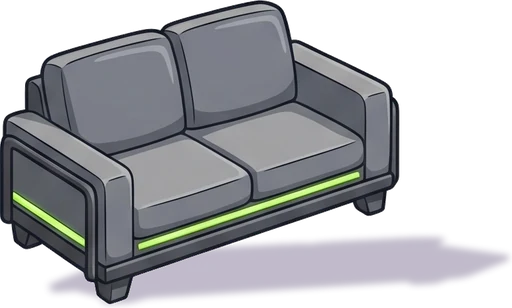
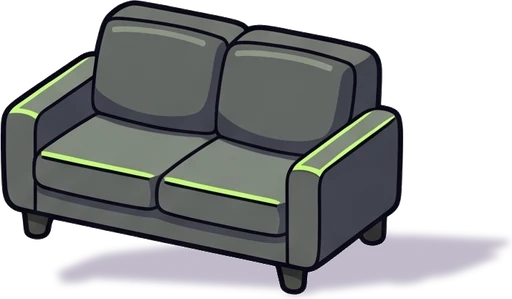
feat: Urban Night room with the bed, wardrobe, desk and shelves drawn in; its sofa and armchair face the viewer

diff --git a/src/data/roomPlacement.test.ts b/src/data/roomPlacement.test.ts
@@ -506,24 +506,24 @@ describe('mission objects and the desk', () => {
   });
 
   describe('turning big items to the other wall', () => {
-    const urban = { ...baseProfile, themeId: 'urban-night' } as LearnerProfile;
-    const { cornerX } = getRoomGeometry('urban-night');
-    const sofaOnRightWall = placeRoomItemAt(urban, 'room-sofa', { x: 75, y: 88 }, NOW);
+    const travel = { ...baseProfile, themeId: 'travel-journal' } as LearnerProfile;
+    const { cornerX } = getRoomGeometry('travel-journal');
+    const sofaOnRightWall = placeRoomItemAt(travel, 'room-sofa', { x: 75, y: 88 }, NOW);
 
     it('marks only furniture with a front and a side as turnable', () => {
       ['room-sofa', 'object:bed', 'object:wardrobe', 'object:desk'].forEach((key) =>
-        expect(findEntry(key === 'room-sofa' ? sofaOnRightWall : urban, key)?.canRotate, key).toBe(true)
+        expect(findEntry(key === 'room-sofa' ? sofaOnRightWall : travel, key)?.canRotate, key).toBe(true)
       );
-      expect(findEntry(urban, 'object:phone')?.canRotate).toBe(false);
-      expect(findEntry(placeRoomItemAt(urban, 'room-books', { x: 70, y: 40 }, NOW), 'room-books')?.canRotate).toBe(false);
+      expect(findEntry(travel, 'object:phone')?.canRotate).toBe(false);
+      expect(findEntry(placeRoomItemAt(travel, 'room-books', { x: 70, y: 40 }, NOW), 'room-books')?.canRotate).toBe(false);
     });
 
     it('knows which wall a big item stands against from where it stands', () => {
       expect(findEntry(sofaOnRightWall, 'room-sofa')?.isOnLeftWall).toBe(false);
       // by default the bed and the wardrobe stand along the left wall, the desk along the right one
-      expect(findEntry(urban, 'object:bed')?.isOnLeftWall).toBe(true);
-      expect(findEntry(urban, 'object:wardrobe')?.isOnLeftWall).toBe(true);
-      expect(findEntry(urban, 'object:desk')?.isOnLeftWall).toBe(false);
+      expect(findEntry(travel, 'object:bed')?.isOnLeftWall).toBe(true);
+      expect(findEntry(travel, 'object:wardrobe')?.isOnLeftWall).toBe(true);
+      expect(findEntry(travel, 'object:desk')?.isOnLeftWall).toBe(false);
     });
 
     it('turns an item where it stands: only the picture changes wall, and turning twice turns it back', () => {
@@ -540,16 +540,16 @@ describe('mission objects and the desk', () => {
       const movedSofa = placeRoomItemAt(sofaOnRightWall, 'room-sofa', { x: 20, y: 92 }, NOW);
       expect(findEntry(movedSofa, 'room-sofa')!.point.x).toBeLessThan(cornerX);
       expect(findEntry(movedSofa, 'room-sofa')!.isOnLeftWall).toBe(false);
-      const movedDesk = moveRoomObject(urban, 'desk', { x: 20, y: 95 }, NOW);
+      const movedDesk = moveRoomObject(travel, 'desk', { x: 20, y: 95 }, NOW);
       expect(findEntry(movedDesk, 'object:desk')!.isOnLeftWall).toBe(false);
-      const turnedThenMoved = moveRoomObject(turnRoomItem(urban, 'object:desk', NOW), 'desk', { x: 85, y: 95 }, NOW);
+      const turnedThenMoved = moveRoomObject(turnRoomItem(travel, 'object:desk', NOW), 'desk', { x: 85, y: 95 }, NOW);
       expect(findEntry(turnedThenMoved, 'object:desk')!.isOnLeftWall).toBe(true);
     });
 
     it('keeps a turned item on the floor, below the baseboard', () => {
-      const geometry = getRoomGeometry('urban-night');
+      const geometry = getRoomGeometry('travel-journal');
       ['room-sofa', 'object:bed', 'object:wardrobe', 'object:desk'].forEach((key) => {
-        const profile = turnRoomItem(key === 'room-sofa' ? sofaOnRightWall : urban, key, NOW);
+        const profile = turnRoomItem(key === 'room-sofa' ? sofaOnRightWall : travel, key, NOW);
         const entry = findEntry(profile, key)!;
         expect(entry.point.y, key).toBeGreaterThanOrEqual(floorEdgeY(geometry, entry.point.x));
         expect(entry.item.slotKind, key).toBe('floor');
@@ -557,7 +557,7 @@ describe('mission objects and the desk', () => {
     });
 
     it('turns the desk with what lies on it', () => {
-      const turned = turnRoomItem(urban, 'object:desk', NOW);
+      const turned = turnRoomItem(travel, 'object:desk', NOW);
       const desk = findEntry(turned, 'object:desk')!;
       expect(desk.isOnLeftWall).toBe(true);
       const phone = findEntry(turned, 'object:phone')!;
@@ -566,8 +566,8 @@ describe('mission objects and the desk', () => {
     });
 
     it('leaves items that cannot turn, and unknown keys, unchanged', () => {
-      expect(turnRoomItem(urban, 'object:phone', NOW)).toBe(urban);
-      expect(turnRoomItem(urban, 'nope', NOW)).toBe(urban);
+      expect(turnRoomItem(travel, 'object:phone', NOW)).toBe(travel);
+      expect(turnRoomItem(travel, 'nope', NOW)).toBe(travel);
     });
   });
 

diff --git a/src/components/room/RoomScene.test.tsx b/src/components/room/RoomScene.test.tsx
@@ -9,11 +9,11 @@ import { RoomScene } from './RoomScene';
 const NOW = new Date('2026-10-29T10:00:00.000Z');
 
 /** A room whose furniture is movable (not drawn into the room picture). */
-const urbanProfile = () => makeProfile({ themeId: 'urban-night' });
+const travelProfile = () => makeProfile({ themeId: 'travel-journal' });
 
 const profileWithSofa = () =>
   placeRoomItemAt(
-    makeProfile({ themeId: 'urban-night', unlockedRewardIds: ['room-sofa'], room: { ...getRoom(makeProfile()), placements: {} } }),
+    makeProfile({ themeId: 'travel-journal', unlockedRewardIds: ['room-sofa'], room: { ...getRoom(makeProfile()), placements: {} } }),
     'room-sofa',
     { x: 75, y: 88 },
     NOW
@@ -22,7 +22,7 @@ const profileWithSofa = () =>
 function renderScene(profile: ReturnType<typeof makeProfile>, moveRequestKey: string | null = null) {
   return render(
     <RoomScene
-      themeId="urban-night"
+      themeId="travel-journal"
       avatarEmoji="🐶"
       entries={getPlacedRoomEntries(profile)}
       avatarPos={AVATAR_HOME}
@@ -42,27 +42,27 @@ describe('RoomScene turned items', () => {
   it('shows the right-wall sofa picture, and the left-wall picture once the sofa is turned to the other wall', () => {
     const profile = profileWithSofa();
     const { unmount } = renderScene(profile);
-    expect(pictureOf('sofa · ספה')).toBe('/art/room/urban-night/room-sofa.webp');
+    expect(pictureOf('sofa · ספה')).toBe('/art/room/travel-journal/room-sofa.webp');
     unmount();
 
     renderScene(turnRoomItem(profile, 'room-sofa', NOW));
-    expect(pictureOf('sofa · ספה')).toBe('/art/room/urban-night/room-sofa-b.webp');
+    expect(pictureOf('sofa · ספה')).toBe('/art/room/travel-journal/room-sofa-b.webp');
   });
 });
 
 describe('RoomScene moving the games book', () => {
   it('shows both the floor and the desk top as places for the book', () => {
-    const { container } = renderScene(urbanProfile(), 'object:games-book');
+    const { container } = renderScene(travelProfile(), 'object:games-book');
     expect(container.querySelectorAll('[data-zone]')).toHaveLength(2);
   });
 
   it('shows only the floor as a place for the bed', () => {
-    const { container } = renderScene(urbanProfile(), 'object:bed');
+    const { container } = renderScene(travelProfile(), 'object:bed');
     expect(container.querySelectorAll('[data-zone]')).toHaveLength(1);
   });
 
   it('outlines a corner room floor along its baseboard, down to the bottom of the picture', () => {
-    const { container } = renderScene(urbanProfile(), 'object:bed');
+    const { container } = renderScene(travelProfile(), 'object:bed');
     const outline = container.querySelector('[data-zone="floor"] polygon')?.getAttribute('points') ?? '';
     const points = outline.split(' ').map((pair) => pair.split(',').map(Number));
     expect(points.length).toBeGreaterThan(10);

diff --git a/src/data/roomGeometry.ts b/src/data/roomGeometry.ts
@@ -584,7 +584,61 @@ const ROOM_GEOMETRY: Record<ThemeId, RoomGeometry> = {
     gamesBook: { x: 55, y: 90 },
     avatarHome: { x: 50, y: 92 },
   }),
-  'urban-night': cornerRoom({ cornerX: 57.5, window: { xMin: 10, xMax: 49, yMin: 4, yMax: 66 }, edge: [89, 63.5, 75], sill: { xMin: 14, xMax: 44, y: 63 } }),
+  'urban-night': bakedRoom({
+    cornerX: 53,
+    window: { xMin: 24, xMax: 48.5, yMin: 10.5, yMax: 49.5 },
+    edge: [76.6, 56.5, 76.2],
+    wallLeft: { xMin: 4, xMax: 18, yMin: 13, yMax: 22 },
+    wallRight: { xMin: 87, xMax: 95, yMin: 19, yMax: 30 },
+    board: { xMin: 68, xMax: 79, yMin: 14, yMax: 16 },
+    shelves: [
+      { id: 'shelf-high', xMin: 68, xMax: 84, y: 25.8, tilt: 0.23 },
+      { id: 'shelf-low', xMin: 77.5, xMax: 94, y: 37.8, tilt: 0.26 },
+      { id: 'window-sill', xMin: 28, xMax: 46, y: 47.2, tilt: -0.2 },
+    ],
+    baked: {
+      roomPicture: '/art/urban-night/room-baked.webp',
+      pieces: [
+        {
+          id: 'wardrobe',
+          tapArea: [{ x: 4, y: 29.5 }, { x: 10, y: 26.5 }, { x: 20, y: 26 }, { x: 26.8, y: 28 }, { x: 26.8, y: 73 }, { x: 13, y: 80.5 }, { x: 10, y: 80.5 }, { x: 4, y: 76.5 }],
+          standAt: { x: 29, y: 85 },
+          bubbleAt: { x: 15, y: 24 },
+        },
+        {
+          id: 'bed',
+          tapArea: [{ x: 27, y: 55.5 }, { x: 32, y: 52 }, { x: 41.5, y: 50 }, { x: 50, y: 47 }, { x: 51.5, y: 41 }, { x: 55, y: 37.5 }, { x: 60, y: 36 }, { x: 64, y: 38 }, { x: 66.5, y: 44 }, { x: 66, y: 64 }, { x: 42, y: 75 }, { x: 39, y: 75 }, { x: 27, y: 68 }],
+          standAt: { x: 48, y: 82 },
+          bubbleAt: { x: 58, y: 33 },
+        },
+        {
+          id: 'desk',
+          tapArea: [{ x: 64.5, y: 52 }, { x: 74.3, y: 48.5 }, { x: 96.5, y: 55.5 }, { x: 96.5, y: 58.5 }, { x: 94.5, y: 75 }, { x: 87.5, y: 79.5 }, { x: 85, y: 79.5 }, { x: 84.8, y: 62 }, { x: 66.5, y: 69 }, { x: 64.5, y: 54.5 }],
+          standAt: { x: 75, y: 86 },
+          bubbleAt: { x: 85, y: 47 },
+        },
+      ],
+      freeFloorEdge: [
+        { x: 0, y: 76.6 },
+        { x: 4, y: 76.5 },
+        { x: 10, y: 80.8 },
+        { x: 13, y: 80.8 },
+        { x: 26.8, y: 74.5 },
+        { x: 27, y: 68.3 },
+        { x: 39, y: 75.3 },
+        { x: 42, y: 75.3 },
+        { x: 65.5, y: 64.3 },
+        { x: 66, y: 70.8 },
+        { x: 85, y: 80 },
+        { x: 87.5, y: 80 },
+        { x: 94.5, y: 75.2 },
+        { x: 100, y: 76.2 },
+      ],
+      deskTop: [{ x: 65.5, y: 53 }, { x: 74.3, y: 49.6 }, { x: 95, y: 56.3 }, { x: 86, y: 59.3 }],
+    },
+    gamesBook: { x: 55, y: 90 },
+    avatarHome: { x: 50, y: 92 },
+  }),
   'travel-journal': cornerRoom({ cornerX: 55.5, window: { xMin: 8, xMax: 50, yMin: 2, yMax: 66 }, edge: [89, 63.5, 84], sill: { xMin: 25, xMax: 47, y: 56 } }),
 };
 

diff --git a/src/data/roomArtManifest.ts b/src/data/roomArtManifest.ts
@@ -178,10 +178,10 @@ export const ROOM_ART: Record<string, Record<string, RoomArtSprite>> = {
     'furniture-shelf-low': { aspect: 1.8417, left: 0.0, right: 1.0, top: 0.0, bottom: 1.0, slope: -0.348 },
     'furniture-sill': { aspect: 1.8893, left: 0.0, right: 1.0, top: 0.0, bottom: 1.0, slope: -0.372 },
     'furniture-board': { aspect: 0.9228, left: 0.0, right: 1.0, top: 0.0, bottom: 1.0, slope: -0.373 },
-    'room-sofa': { aspect: 1.6203, left: 0.0, right: 0.8016, top: 0.0, bottom: 0.9872, slope: 0.339 },
-    'room-sofa-b': { aspect: 1.6623, left: 0.0, right: 0.7799, top: 0.0, bottom: 0.9872, slope: -0.335 },
-    'room-chair': { aspect: 1.3617, left: 0.0, right: 0.6829, top: 0.0, bottom: 0.9863, slope: 0.308 },
-    'room-chair-b': { aspect: 1.258, left: 0.0, right: 0.7387, top: 0.0, bottom: 0.9863, slope: -0.33 },
+    'room-sofa': { aspect: 1.7124, left: 0.0, right: 0.7874, top: 0.0, bottom: 0.9856, slope: 0.0 },
+    'room-sofa-b': { aspect: 1.7124, left: 0.0, right: 0.7874, top: 0.0, bottom: 0.9856, slope: 0.0 },
+    'room-chair': { aspect: 1.2962, left: 0.0, right: 0.6661, top: 0.0, bottom: 0.9876, slope: 0.0 },
+    'room-chair-b': { aspect: 1.2962, left: 0.0, right: 0.6661, top: 0.0, bottom: 0.9876, slope: 0.0 },
     'object-bed': { aspect: 1.7067, left: 0.0, right: 0.7151, top: 0.0, bottom: 0.9878, slope: 0.242 },
     'object-bed-b': { aspect: 1.4504, left: 0.0, right: 0.8427, top: 0.0, bottom: 0.9878, slope: -0.247 },
     'object-wardrobe': { aspect: 1.1663, left: 0.0, right: 0.5726, top: 0.0, bottom: 0.9903, slope: 0.158 },

diff --git a/scripts/art/process_room_art.py b/scripts/art/process_room_art.py
@@ -83,6 +83,8 @@ FRONT_PICKS = {
     'neon-pop/room-chair': 1,
     'focus-desk/room-sofa': 3,
     'focus-desk/room-chair': 2,
+    'urban-night/room-sofa': 3,
+    'urban-night/room-chair': 4,
 }
 SHADOW_SQUASH = 0.22  # the shadow's height as a share of the object's (light from high up on the left)
 SHADOW_LEAN = 0.55  # pixels to the right per pixel of the object's height

diff --git a/docs/architecture.md b/docs/architecture.md
@@ -195,7 +195,7 @@ Each learning mission consists of 5 pedagogical drill stages:
 
 ### 4.12. My English Room (`room.ts`, `wardrobe.ts`, `roomRewards.ts`, `roomActivities.ts`, `voiceMessages.ts`, `dreamJournal.ts`, `wordGames.ts`, `stickers.ts`, `components/room/`)
 - The "החדר שלי" home dock tile opens the room full-screen; its dot shows while an earned item waits to be placed.
-- **The room** (`RoomScene`): a drawn wall/floor scene, drawn furniture (`public/art/room/*.webp`: two shelves, the window sill, the desk and the sticker board, made with `scripts/art/renderRoomFurniture.mjs` and `scripts/art/process_room_furniture.py`; `FURNITURE_PIECES` in `roomLayout.ts`) and four mission objects: 🛏 bed, 📱 phone, 🚪 wardrobe, 📖 Games Book. **Free placement** (`data/roomPlacement.ts`): items stand on *surfaces* (`ROOM_SURFACES`: wall-left/right, board, shelf-high, shelf-low, window-sill, desk-top, floor), each for one `slotKind`. A point is the item's feet (shelf, desk, floor) or centre (wall, board), in scene %. `snapToSurface` puts any point on the nearest surface of the item's kind, `findFreePoint` moves a drop off other items, floor items scale with depth (`getDepthScale`), and a soft shadow sits under standing items. **Moving**: drag with mouse or touch (`useRoomItemDrag`, 6 px threshold so a tap still taps; the surfaces show as dashed zones while dragging), or with the keyboard: focus an item or press "הזזה", arrows move, Up/Down or PageUp/PageDown change surface, Enter drops, Esc cancels, with a Hebrew live announcement. **Everything is movable**: the mission objects (bed, wardrobe, phone, games book) and the desk are entries too (key `object:<id>`, `room.positions`; `moveRoomObject` / `moveRoomEntry`, defaults in `getPlacedRoomEntries`). Big furniture (bed, wardrobe, desk, sofa) stands on the floor surface (feet at the floor depth, width-aware edge and overlap rules, `getItemWidth` gives believable relative sizes), and the desk top is a surface that follows the desk (`getRoomLayout`, `getDeskTopPoint`): moving the desk carries the phone and the small items on it. The icons have transparent padding, so the scene anchors an item's feet and its contact shadow on the drawn object's visible bottom (`data/roomIconBounds.ts`, generated by `python scripts/art/measure_icon_bounds.py` from the icon alpha; re-run it when a room item gets a new icon): the shadow is an ellipse 70% of the footprint, centred on the feet. z-order follows the feet's y, with desk items above the desk. Tapping the stickers button with no stickers owned opens `StickersLockedSheet` (gendered Hebrew from `getHebrewCopy`, read aloud for grades 1–2, button to the shop; its two lines are in the Hebrew TTS corpus, so run `npm run tts:render:he -- submit` / `collect` to give them clips, until then the online voice reads them); an opened panel scrolls into view. A new item is chosen in the inventory, a zone is tapped, and the item is named as before. **Corner rooms** (`data/roomGeometry.ts`): each theme has a corner room picture, `public/art/<theme>/room-corner.webp` (`art.roomCorner`, 4:3, drawn by the pilot script `scripts/art/renderRoomPilot.mjs`), and a `RoomGeometry` measured on it: the corner x, the baseboard line (`floorEdge`, not level), the zones for hanging items, the shelf lines, sill and sticker board (right wall), and where the bed, wardrobe, desk and book stand until moved. `getRoomLayout(profile)` carries it (`layout.geometry`), `getSurfaces` builds the surfaces from it (floor items stay below the baseboard: `RoomSurface.minYAt`), `getDepthScale` and `getDeskTopPoint` take it, and saved positions are pulled back inside the room on read (`settle`; the original room, `LEGACY_GEOMETRY`, keeps points exactly as saved and is the fallback for an unknown theme). The first front-on pictures (`room-bg.webp`) stay in `public/art` unused. Furniture sprites (`getFurniturePieces`: the two shelves and the board, from the themed pictures in `public/art/room/<theme>/`; no sill is drawn, the room pictures have their own window ledge) and the item pictures come from `ROOM_ART` (`data/roomArt.ts`, generated by `scripts/art/process_room_art.py`; drawn with `scripts/art/renderRoomArt.mjs`). The games book may also lie on the desk top (`getObjectMoveKinds`, `OBJECT_EXTRA_KINDS`: an object with extra kinds ends up on whichever of its surfaces the drop is nearest, its kind follows where it stands, and the drag zones show both); what lies on the desk follows the desk top exactly when the desk moves. **Turning to the other wall** (`turnRoomItem`, `getOtherWallPoint`): sofa, chair, bed, wardrobe and desk (`ROTATABLE_KEYS`) stand against a wall, and their picture follows the wall (`PlacedRoomEntry.isOnLeftWall`: left of the geometry's `cornerX`): each has a right-wall picture and a second, left-wall picture (`<id>-b`, drawn the other way round with its shadow still on the right). Dragging such an item across the corner switches its picture; the icon-only 🔄 button moves it to the matching spot against the other wall (same distance along the wall and from the baseboard), so it never floats away from the wall it was against. The desk takes what lies on it along. The button sits next to move / put away (also after tapping a bed, wardrobe or desk) and has no visible Hebrew text, so nothing new is read aloud. Nothing about the turn is stored: the wall follows from the item's position. Wall pictures, board stickers and things on the sill are drawn for the right wall and mirrored on the left (`getRoomSprite`'s `canMirror`); floor and desk items with a baked shadow are never mirrored. Per-theme colours stay in `roomLayout.ts`. The equipped shop avatar walks to whatever the learner taps. **Rooms with the furniture drawn in** (Starlight, Cozy Studio, Neon Pop and Focus Desk so far; the other themes switch one by one, then the movable-furniture code goes): the room picture `public/art/<theme>/room-baked.webp` has the bed, wardrobe, desk and both shelves drawn in, in the same places in every theme (drawn with `scripts/art/renderBakedRoom.mjs`: a 2 × 2 sheet of takes, a pick, small fixes with the pick as reference, `batch <theme>` for several takes at half price; cut to 4:3 by `scripts/art/process_baked_room.py`). `RoomGeometry.baked` holds what was measured on it: for each piece a tap area, a spot for the avatar and a spot for its name (`getFixedFurniture`; RoomScene draws an invisible, focusable button over each piece, RoomScreen walks the avatar there and opens its activity), the line along the front of the furniture that floor items stay in front of across their whole width (`freeFloorEdge`), the drawn desk top (`deskTop`) and the shelf lines with their own tilt. In such a room the bed, wardrobe and desk are not entries (no move, no turn), no piece turns, and positions or facings saved for them stay in the profile unused. There is no sticker board: stickers hang on the free walls or stand on the drawn shelves (`getSurfaces('board')`). The sofa and armchair face the viewer (`renderRoomArt.mjs front`, a sheet of takes drawn with the room as reference; the picked take is named in `FRONT_PICKS` in `process_room_art.py`, level, with a made shadow) and move on the free floor.
+- **The room** (`RoomScene`): a drawn wall/floor scene, drawn furniture (`public/art/room/*.webp`: two shelves, the window sill, the desk and the sticker board, made with `scripts/art/renderRoomFurniture.mjs` and `scripts/art/process_room_furniture.py`; `FURNITURE_PIECES` in `roomLayout.ts`) and four mission objects: 🛏 bed, 📱 phone, 🚪 wardrobe, 📖 Games Book. **Free placement** (`data/roomPlacement.ts`): items stand on *surfaces* (`ROOM_SURFACES`: wall-left/right, board, shelf-high, shelf-low, window-sill, desk-top, floor), each for one `slotKind`. A point is the item's feet (shelf, desk, floor) or centre (wall, board), in scene %. `snapToSurface` puts any point on the nearest surface of the item's kind, `findFreePoint` moves a drop off other items, floor items scale with depth (`getDepthScale`), and a soft shadow sits under standing items. **Moving**: drag with mouse or touch (`useRoomItemDrag`, 6 px threshold so a tap still taps; the surfaces show as dashed zones while dragging), or with the keyboard: focus an item or press "הזזה", arrows move, Up/Down or PageUp/PageDown change surface, Enter drops, Esc cancels, with a Hebrew live announcement. **Everything is movable**: the mission objects (bed, wardrobe, phone, games book) and the desk are entries too (key `object:<id>`, `room.positions`; `moveRoomObject` / `moveRoomEntry`, defaults in `getPlacedRoomEntries`). Big furniture (bed, wardrobe, desk, sofa) stands on the floor surface (feet at the floor depth, width-aware edge and overlap rules, `getItemWidth` gives believable relative sizes), and the desk top is a surface that follows the desk (`getRoomLayout`, `getDeskTopPoint`): moving the desk carries the phone and the small items on it. The icons have transparent padding, so the scene anchors an item's feet and its contact shadow on the drawn object's visible bottom (`data/roomIconBounds.ts`, generated by `python scripts/art/measure_icon_bounds.py` from the icon alpha; re-run it when a room item gets a new icon): the shadow is an ellipse 70% of the footprint, centred on the feet. z-order follows the feet's y, with desk items above the desk. Tapping the stickers button with no stickers owned opens `StickersLockedSheet` (gendered Hebrew from `getHebrewCopy`, read aloud for grades 1–2, button to the shop; its two lines are in the Hebrew TTS corpus, so run `npm run tts:render:he -- submit` / `collect` to give them clips, until then the online voice reads them); an opened panel scrolls into view. A new item is chosen in the inventory, a zone is tapped, and the item is named as before. **Corner rooms** (`data/roomGeometry.ts`): each theme has a corner room picture, `public/art/<theme>/room-corner.webp` (`art.roomCorner`, 4:3, drawn by the pilot script `scripts/art/renderRoomPilot.mjs`), and a `RoomGeometry` measured on it: the corner x, the baseboard line (`floorEdge`, not level), the zones for hanging items, the shelf lines, sill and sticker board (right wall), and where the bed, wardrobe, desk and book stand until moved. `getRoomLayout(profile)` carries it (`layout.geometry`), `getSurfaces` builds the surfaces from it (floor items stay below the baseboard: `RoomSurface.minYAt`), `getDepthScale` and `getDeskTopPoint` take it, and saved positions are pulled back inside the room on read (`settle`; the original room, `LEGACY_GEOMETRY`, keeps points exactly as saved and is the fallback for an unknown theme). The first front-on pictures (`room-bg.webp`) stay in `public/art` unused. Furniture sprites (`getFurniturePieces`: the two shelves and the board, from the themed pictures in `public/art/room/<theme>/`; no sill is drawn, the room pictures have their own window ledge) and the item pictures come from `ROOM_ART` (`data/roomArt.ts`, generated by `scripts/art/process_room_art.py`; drawn with `scripts/art/renderRoomArt.mjs`). The games book may also lie on the desk top (`getObjectMoveKinds`, `OBJECT_EXTRA_KINDS`: an object with extra kinds ends up on whichever of its surfaces the drop is nearest, its kind follows where it stands, and the drag zones show both); what lies on the desk follows the desk top exactly when the desk moves. **Turning to the other wall** (`turnRoomItem`, `getOtherWallPoint`): sofa, chair, bed, wardrobe and desk (`ROTATABLE_KEYS`) stand against a wall, and their picture follows the wall (`PlacedRoomEntry.isOnLeftWall`: left of the geometry's `cornerX`): each has a right-wall picture and a second, left-wall picture (`<id>-b`, drawn the other way round with its shadow still on the right). Dragging such an item across the corner switches its picture; the icon-only 🔄 button moves it to the matching spot against the other wall (same distance along the wall and from the baseboard), so it never floats away from the wall it was against. The desk takes what lies on it along. The button sits next to move / put away (also after tapping a bed, wardrobe or desk) and has no visible Hebrew text, so nothing new is read aloud. Nothing about the turn is stored: the wall follows from the item's position. Wall pictures, board stickers and things on the sill are drawn for the right wall and mirrored on the left (`getRoomSprite`'s `canMirror`); floor and desk items with a baked shadow are never mirrored. Per-theme colours stay in `roomLayout.ts`. The equipped shop avatar walks to whatever the learner taps. **Rooms with the furniture drawn in** (Starlight, Cozy Studio, Neon Pop, Focus Desk and Urban Night so far; the other themes switch one by one, then the movable-furniture code goes): the room picture `public/art/<theme>/room-baked.webp` has the bed, wardrobe, desk and both shelves drawn in, in the same places in every theme (drawn with `scripts/art/renderBakedRoom.mjs`: a 2 × 2 sheet of takes, a pick, small fixes with the pick as reference, `batch <theme>` for several takes at half price; cut to 4:3 by `scripts/art/process_baked_room.py`). `RoomGeometry.baked` holds what was measured on it: for each piece a tap area, a spot for the avatar and a spot for its name (`getFixedFurniture`; RoomScene draws an invisible, focusable button over each piece, RoomScreen walks the avatar there and opens its activity), the line along the front of the furniture that floor items stay in front of across their whole width (`freeFloorEdge`), the drawn desk top (`deskTop`) and the shelf lines with their own tilt. In such a room the bed, wardrobe and desk are not entries (no move, no turn), no piece turns, and positions or facings saved for them stay in the profile unused. There is no sticker board: stickers hang on the free walls or stand on the drawn shelves (`getSurfaces('board')`). The sofa and armchair face the viewer (`renderRoomArt.mjs front`, a sheet of takes drawn with the room as reference; the picked take is named in `FRONT_PICKS` in `process_room_art.py`, level, with a made shadow) and move on the free floor.
 - **Mission objects** show a "coming soon" bubble with their activity until later phases ship.
 - **Items**: 20 room items (`ROOM_ITEMS`) plus the shop decor lamp and the 3 shop stickers (`SHOP_ROOM_ITEMS`). Every learner starts with the 🪴 plant. Ownership reuses `unlockedRewardIds`.
 - **Earning**: a mission's *first* 3-star result awards the next unowned item in `ROOM_REWARD_ORDER` (`roomRewards.ts`), which alternates room decor and wardrobe items. The victory screen previews it and the dashboard shows a toast.
